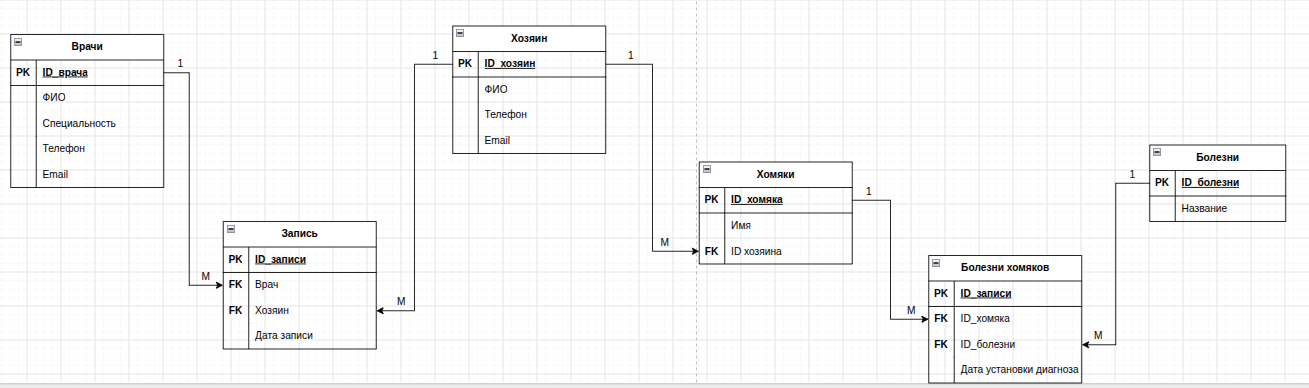
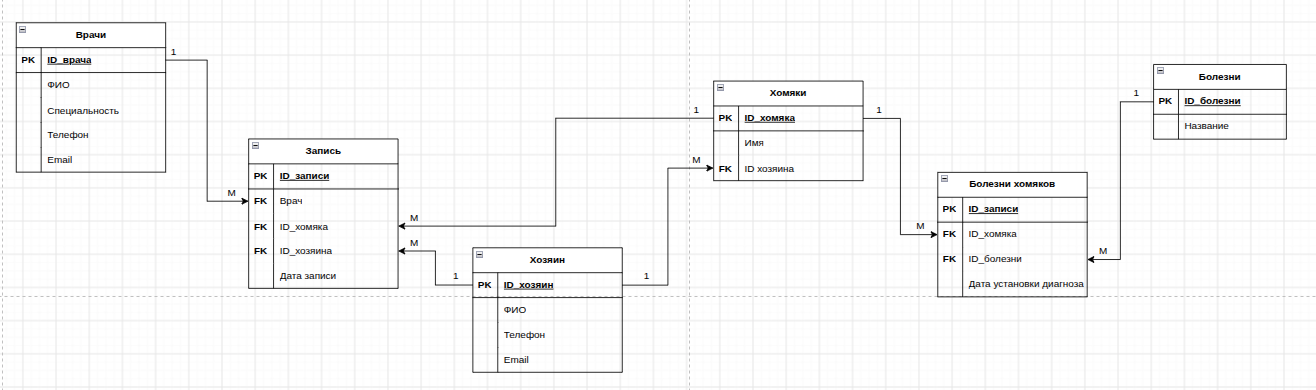
Изменена таблица "Записи к врачу" - теперь туда пишется и владелец и хомяк.

diff --git a/README.MD b/README.MD
@@ -2,3 +2,5 @@
 
 Схема базы данных:
 ![database](screenshots/db.png)
+
+Добавлена связь между Записями к врачу и хомяками на случай если у хомяка сменится владелец.
